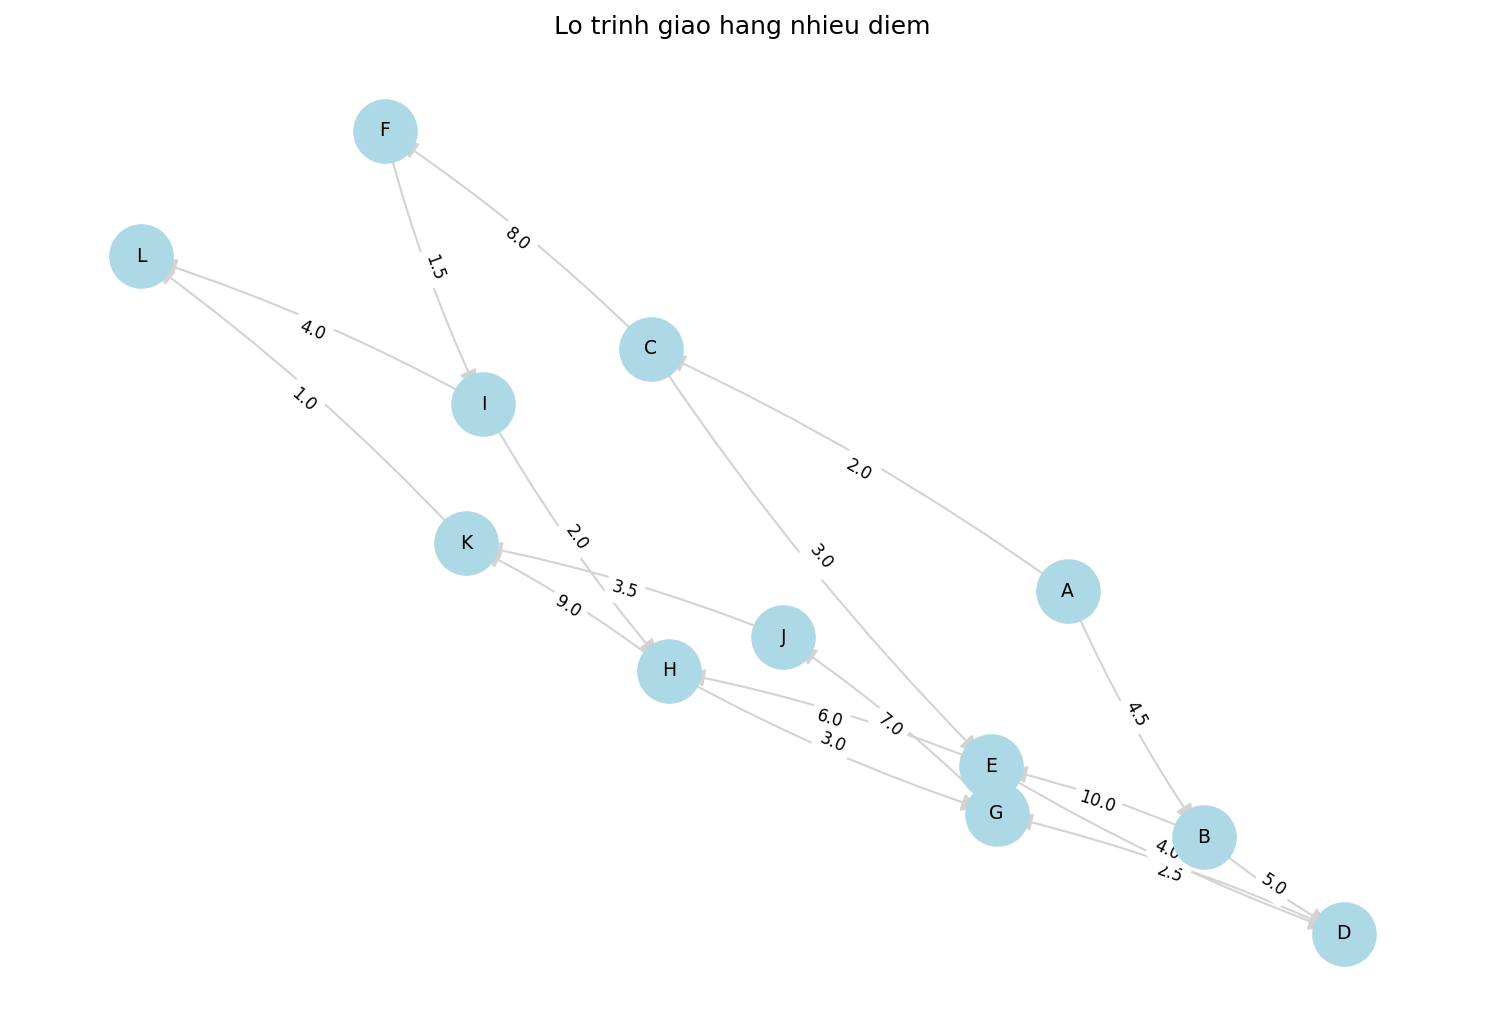
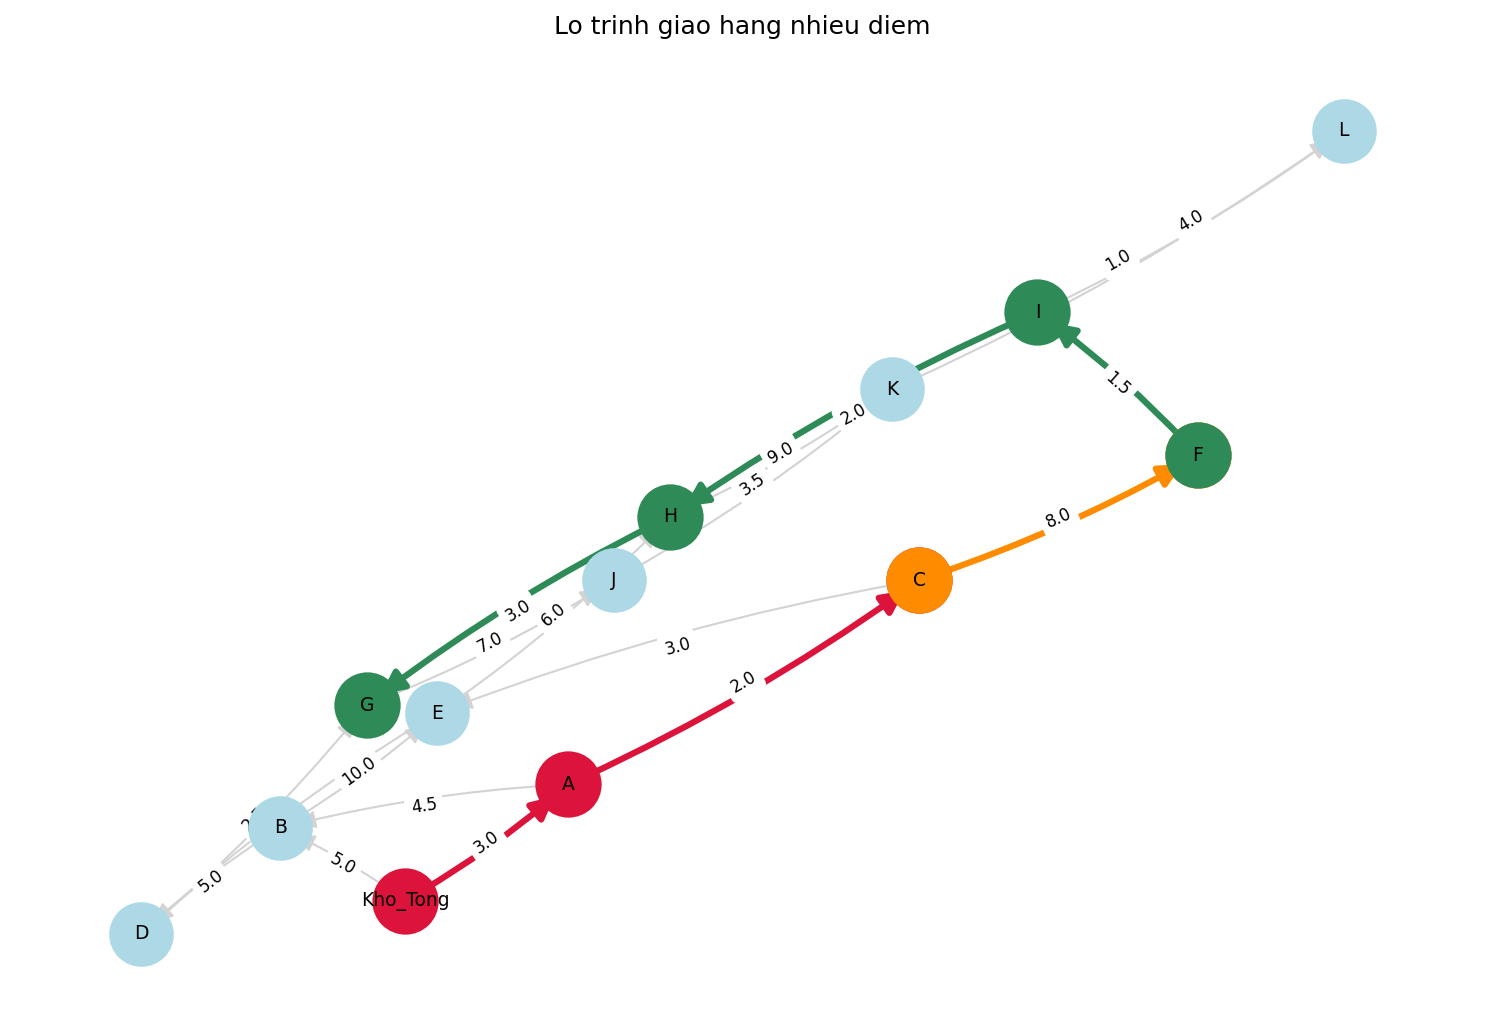
Chốt bản demo cuối: Cập nhật chuẩn data.json, fix lỗi đứt đường và xuất ảnh lộ trình đỏ

diff --git a/scripts/main.py b/scripts/main.py
@@ -50,6 +50,6 @@ if __name__ == "__main__":
     demo_1_diem_den()
     demo_2_so_sanh_thuat_toan()
     demo_3_giao_nhieu_diem()
-    test_khong_co_duong_di()
+    #test_Kg_di()
 
     print("\n=== HOAN THANH DEMO TICH HOP ===")
